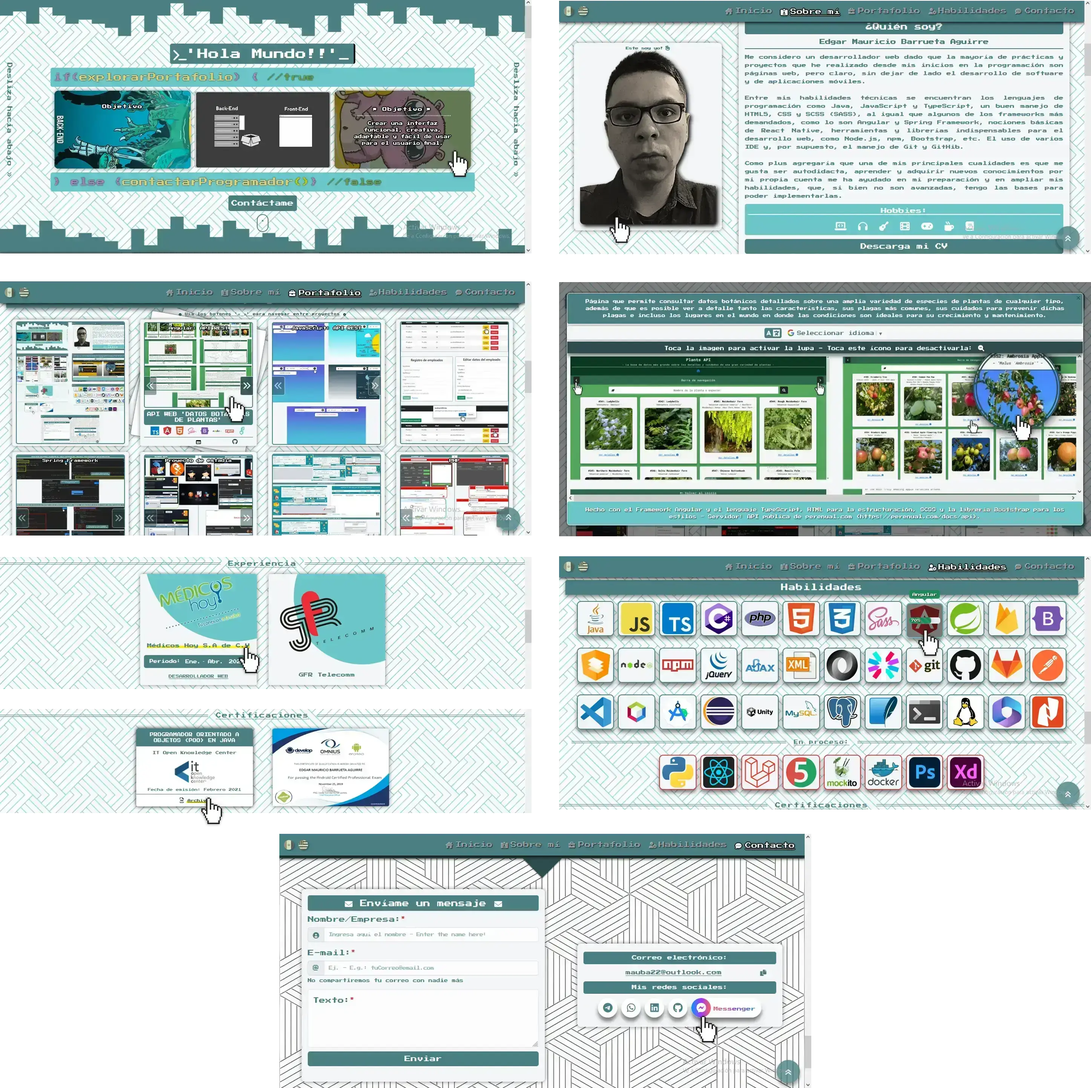
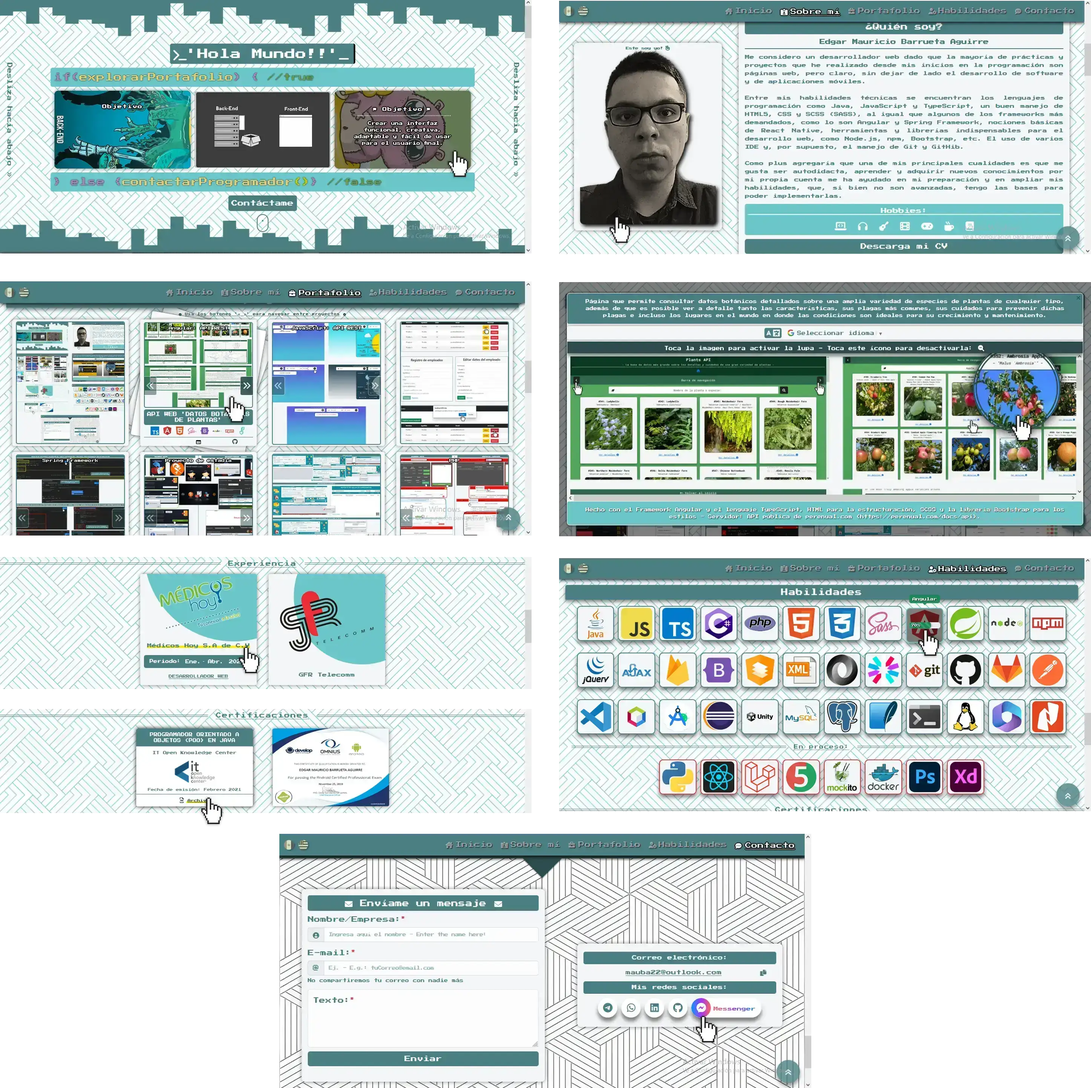
Updates

Changed region(s): [[0.4976, 0.4991, 0.9952, 0.7487]]

diff --git a/templates/templates.html b/templates/templates.html
@@ -2,7 +2,6 @@
 <html lang="es-MX">
 <head></head>
 <body>
-  <!--FALTA VER SI SE PUEDE OPTIMIZAR EL TEMPLATE--> 
     <template id="java-projects">
         <li data-bs-toggle="tooltip" data-bs-placement="top" data-bs-custom-class="p-tec-tooltip" title="Java">
             <i><img class="Java-Icon p-tec-svg-icons"></i>
@@ -204,8 +203,8 @@
           <div class="card-skills" data-bs-toggle="tooltip" data-bs-placement="top" data-bs-custom-class="tooltip-warning" title="C#">
             <img class="C-Icon position-absolute top-50 start-50 translate-middle">
             <div class="info-skills progress">
-              <div class="progress-bar progress-bar-striped progress-bar-animated bg-warning" role="progressbar" style="width: 65%" 
-                aria-valuenow="65" aria-valuemin="0" aria-valuemax="100">65%</div>
+              <div class="progress-bar progress-bar-striped progress-bar-animated bg-warning" role="progressbar" style="width: 60%" 
+                aria-valuenow="60" aria-valuemin="0" aria-valuemax="100">60%</div>
             </div>
           </div>
           <div class="card-skills" data-bs-toggle="tooltip" data-bs-placement="top" data-bs-custom-class="tooltip-danger" title="PHP">
@@ -250,27 +249,6 @@
                 aria-valuenow="65" aria-valuemin="0" aria-valuemax="100">65%</div>
             </div>
           </div>      
-          <div class="card-skills" data-bs-toggle="tooltip" data-bs-placement="top" data-bs-custom-class="tooltip-danger"title="Firebase">
-            <img class="Firebase-Icon position-absolute top-50 start-50 translate-middle">
-            <div class="info-skills progress">
-              <div class="progress-bar progress-bar-striped progress-bar-animated bg-danger" role="progressbar" style="width: 30%" 
-                aria-valuenow="30" aria-valuemin="0" aria-valuemax="100">30%</div>
-            </div>
-          </div>                             
-          <div class="card-skills" data-bs-toggle="tooltip" data-bs-placement="top" data-bs-custom-class="tooltip-success" title="Bootstrap">
-            <img class="Bootstrap-Icon position-absolute top-50 start-50 translate-middle">
-            <div class="info-skills progress">
-              <div class="progress-bar progress-bar-striped progress-bar-animated bg-success" role="progressbar" style="width: 75%" 
-                aria-valuenow="75" aria-valuemin="0" aria-valuemax="100">75%</div>
-            </div>
-          </div>
-          <div class="card-skills" data-bs-toggle="tooltip" data-bs-placement="top" data-bs-custom-class="tooltip-warning" title="Angular Material">
-            <img class="AngMaterial-Icon position-absolute top-50 start-50 translate-middle">
-            <div class="info-skills progress">
-              <div class="progress-bar progress-bar-striped progress-bar-animated bg-warning" role="progressbar" style="width: 60%" 
-                aria-valuenow="60" aria-valuemin="0" aria-valuemax="100">60%</div>
-            </div>
-          </div>   
           <div class="card-skills" data-bs-toggle="tooltip" data-bs-placement="top" data-bs-custom-class="tooltip-warning" title="Node.js">
             <img class="Node-Icon position-absolute top-50 start-50 translate-middle img-pdng">
             <div class="info-skills progress">
@@ -299,6 +277,27 @@
                 aria-valuenow="65" aria-valuemin="0" aria-valuemax="100">65%</div>
             </div>
           </div> 
+          <div class="card-skills" data-bs-toggle="tooltip" data-bs-placement="top" data-bs-custom-class="tooltip-danger"title="Firebase">
+            <img class="Firebase-Icon position-absolute top-50 start-50 translate-middle">
+            <div class="info-skills progress">
+              <div class="progress-bar progress-bar-striped progress-bar-animated bg-danger" role="progressbar" style="width: 30%" 
+                aria-valuenow="30" aria-valuemin="0" aria-valuemax="100">30%</div>
+            </div>
+          </div>                             
+          <div class="card-skills" data-bs-toggle="tooltip" data-bs-placement="top" data-bs-custom-class="tooltip-success" title="Bootstrap">
+            <img class="Bootstrap-Icon position-absolute top-50 start-50 translate-middle">
+            <div class="info-skills progress">
+              <div class="progress-bar progress-bar-striped progress-bar-animated bg-success" role="progressbar" style="width: 75%" 
+                aria-valuenow="75" aria-valuemin="0" aria-valuemax="100">75%</div>
+            </div>
+          </div>
+          <div class="card-skills" data-bs-toggle="tooltip" data-bs-placement="top" data-bs-custom-class="tooltip-warning" title="Angular Material">
+            <img class="AngMaterial-Icon position-absolute top-50 start-50 translate-middle">
+            <div class="info-skills progress">
+              <div class="progress-bar progress-bar-striped progress-bar-animated bg-warning" role="progressbar" style="width: 60%" 
+                aria-valuenow="60" aria-valuemin="0" aria-valuemax="100">60%</div>
+            </div>
+          </div>   
           <div class="card-skills" data-bs-toggle="tooltip" data-bs-placement="top" data-bs-custom-class="tooltip-success" title="XML">
             <img class="XML-Icon position-absolute top-50 start-50 translate-middle">
             <div class="info-skills progress">
@@ -425,7 +424,7 @@
                 aria-valuenow="70" aria-valuemin="0" aria-valuemax="100">70%</div>
             </div>
           </div>
-          <div class="card-skills" data-bs-toggle="tooltip" data-bs-placement="top" data-bs-custom-class="tooltip-success" title="Nitro PDF Reader">
+          <div class="card-skills" data-bs-toggle="tooltip" data-bs-placement="top" data-bs-custom-class="tooltip-success" title="Nitro PDF">
             <img class="Nitro-Icon position-absolute top-50 start-50 translate-middle">
             <div class="info-skills progress">
               <div class="progress-bar progress-bar-striped progress-bar-animated bg-success" role="progressbar" style="width: 70%" 

diff --git a/index.html b/index.html
@@ -171,10 +171,10 @@
             <div class="img-container carousel-item active" data-bs-interval="30000">
               <span class="img-carousel-title" data-es="Angular: API REST" data-en="Angular: REST API"></span>
               <img src="img/proyectos/PlantsAPI.webp" class="img-item" alt="Hecho con el Framework Angular y el lenguaje TypeScript, HTML para la 
-                estructuración, SCSS y la librería Bootstrap para los estilos - Servidor: API pública de perenual.com (https://perenual.com/docs/api)." 
-                data-title="Página que permite consultar datos botánicos detallados sobre una amplia variedad de especies de plantas de cualquier tipo,
-                además de que es posible ver a detalle tanto las características, sus plagas más comunes, sus cuidados para prevenir dichas plagas e
-                incluso los lugares en el mundo en donde las condiciones son ideales para su crecimiento y mantenimiento." loading="lazy">
+                estructuración, SCSS y la librería Bootstrap para los estilos - Servidor: API pública de la página Perenual (https://perenual.com/docs/api)." 
+                data-title="Página que permite consultar datos botánicos detallados sobre una amplia variedad de especies de plantas, además de que es posible 
+                ver a detalle tanto las características, sus plagas más comunes, sus cuidados para prevenir dichas plagas e incluso los lugares en el mundo 
+                en donde las condiciones son ideales para su crecimiento y mantenimiento." loading="lazy">
               <div class="details carousel-caption">
                 <h2 class="carousel-project-title" data-es="API Web 'Datos Botánicos de Plantas'" data-en="'Plants Botanical Data' Web API"></h2>
                 <div class="tec-icons">

diff --git a/css/styles.css b/css/styles.css
@@ -536,7 +536,7 @@ img.Docker-Icon { content: url(../svg/Docker.svg); } img.AdobeXD-Icon { content:
     display: table-cell; width: 100%; 
     font-size: 10px; line-height: 18px; cursor: default;
 }
-.modal-footer>p { text-shadow: var(--basicTextShadow) }
+.modal-footer>p { text-shadow: 0.5px 0.5px 2px #000 }
 .modal-header .btn-close { /* Modal Close Button */
     position: absolute; top: 0; right: 0; font-size: 9px;
     background-color: transparent; opacity: 0.5; margin: 2px 2px 0 0; padding: 5px; 
@@ -870,7 +870,7 @@ img.Docker-Icon { content: url(../svg/Docker.svg); } img.AdobeXD-Icon { content:
 } 
 .button:nth-child(5) span {
     background: #FF6968;  background: linear-gradient(to right, #FF6968 0%, #A334FA 50%, #0695ff 100%);
-    background-clip: text; -webkit-text-fill-color: transparent;
+    background-clip: text; -webkit-background-clip: text; -webkit-text-fill-color: transparent;
 }
 
 /* ---------------------------------------------------------------- FOOTER ----------------------------------------------------------------- */
